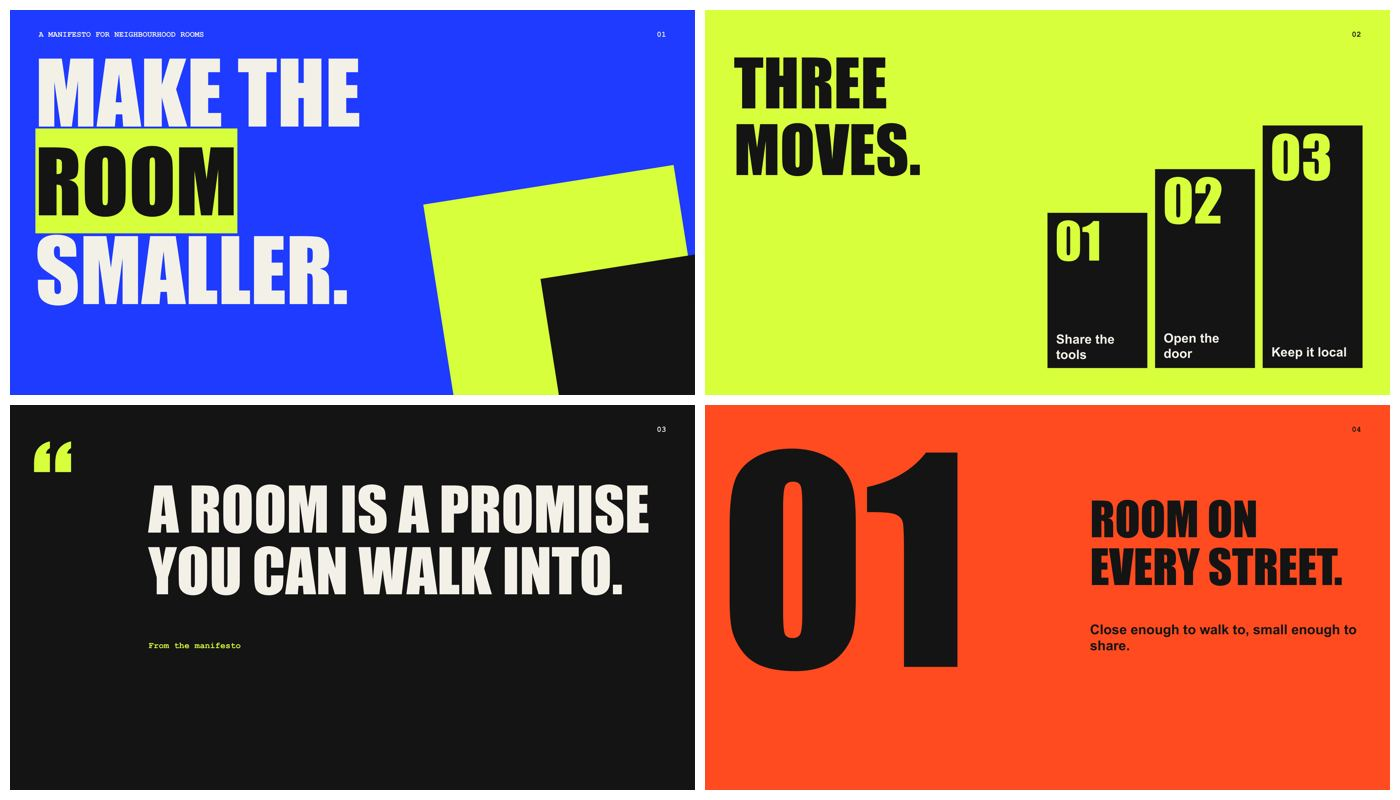
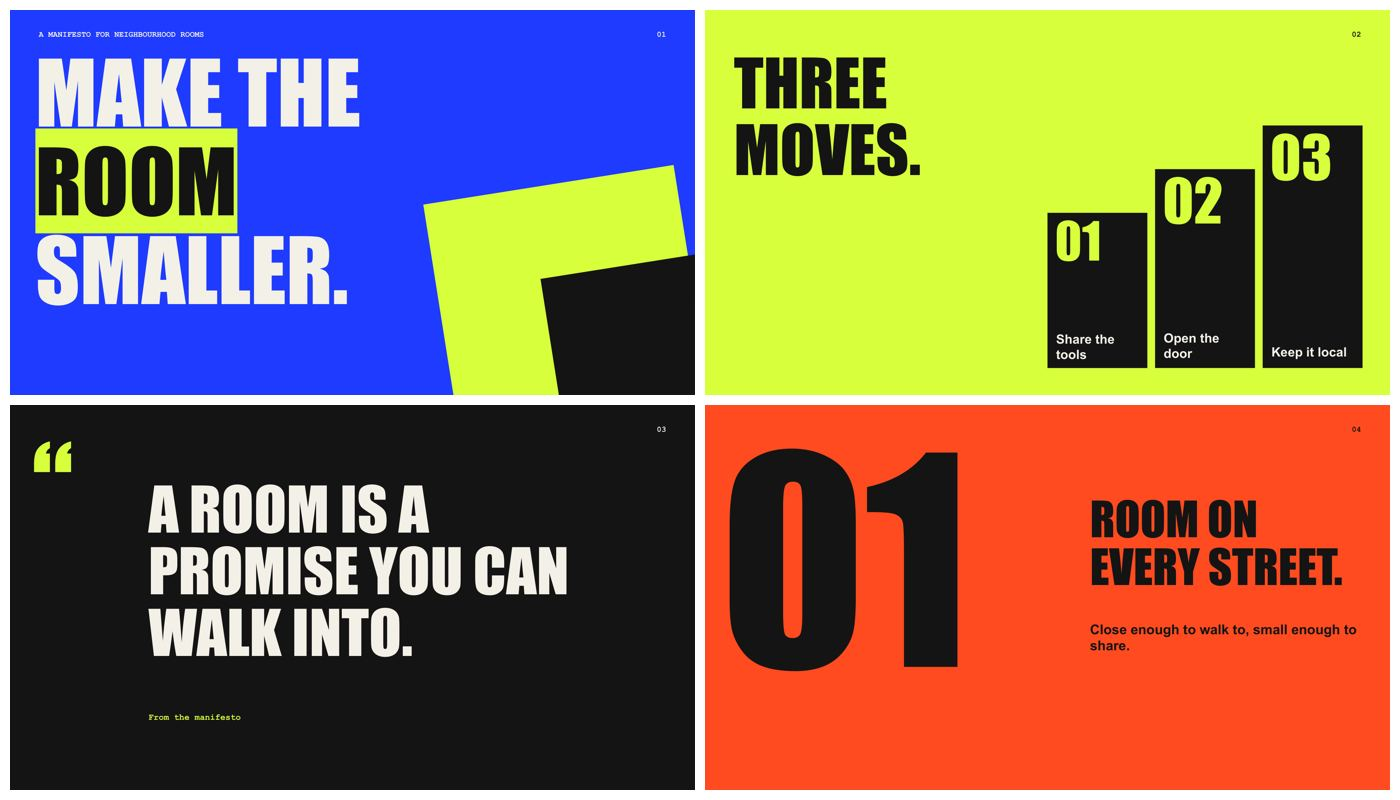
poster: display type is measured with headroom and by the larger of the lint's and the glyphs' line counts, and a wrapping title is set in its measured lines — on the CI's Linux faces a poster title took one more line than its box held

Changed region(s): [[0.0921, 0.5938, 0.4607, 0.8438], [0.1229, 0.875, 0.1536, 0.9062]]

diff --git a/skills/slide-maker/scripts/vl_native.py b/skills/slide-maker/scripts/vl_native.py
@@ -259,8 +259,16 @@ def display(k, slide, rect, text, field, *, highlight=None, caps=True, ink=None,
             if gw is not None and gw > w - dk.TEXT_INSET_LR:
                 return False
         return True
+    # measured in HEADROOM of the box and drawn at its full width, as every other field (vl.HEADROOM): on the CI's
+    # Linux faces a poster title measured to fit exactly took one more line than its box held (2026-10-09)
+    wm = w * vl.HEADROOM
+
+    def need_at(sz_):
+        # the lint's line model AND the glyph breaks the render follows — the larger: on Linux's stand-in faces the
+        # glyph breaks took a line more than the lint model, and the title left its box (CI, 2026-10-09)
+        return max(measure(None, sz_, wm), measure(vl._break_lines(k, field, t, sz_, wm), sz_, wm))
     while True:
-        need = measure(None, sz, w)
+        need = need_at(sz)
         if (need <= h and words_fit(sz)) or sz <= fl + 1e-6:
             break
         sz = max(fl, sz * 0.93)
@@ -274,21 +282,26 @@ def display(k, slide, rect, text, field, *, highlight=None, caps=True, ink=None,
         ls = vl._break_lines(k, field, t, sz_, w_)
         return dk._has_cjk(t) or len(ls) < 2 or len(ls[-2].split()) > 1
 
-    lines, bw = None, w
+    lines, bw = None, wm                           # bw: the MEASURE; the box is drawn (w - wm) wider
     if field in vl._NO_WIDOW:
         sz2, tries = sz, 0
-        while widowed(sz2, w) and sz2 * 0.95 >= fl and tries < 10:
+        while widowed(sz2, wm) and sz2 * 0.95 >= fl and tries < 10:
             sz2, tries = sz2 * 0.95, tries + 1
-        fit = vl._phrase_lines(k, field, t, sz, w, max(fl, min(0.7 * sz, sz2)))
+        fit = vl._phrase_lines(k, field, t, sz, wm, max(fl, min(0.7 * sz, sz2)))
         if fit is not None and (hi is None or any(hi.upper() in l_.upper() for l_ in fit[1])):
             sz2, lines = fit                       # a highlight is never split across a clause break
-        elif widowed(sz2, w):
+        elif widowed(sz2, wm):
             sz2 = sz
-            bw = vl._balanced_width(k, field, t, sz, w) or w
+            bw = vl._balanced_width(k, field, t, sz, wm) or wm
         if measure(lines, sz2, bw) <= h + 1e-6:
             sz, need = sz2, measure(lines, sz2, bw)
         else:                                      # a guard, not a path: the plain fit stands
-            lines, bw = None, w
+            lines, bw = None, wm
+    if lines is None:                              # a wrapping title is SET in its measured lines (vl._set_lines)
+        ls = vl._set_lines(k, field, t, sz, bw)
+        if ls and measure(ls, sz, bw) <= h + 1e-6:
+            lines, need = ls, measure(ls, sz, bw)
+    bw = min(w, bw + (w - wm))
     if align == "r":
         x = x + w - bw
     elif align == "c":
